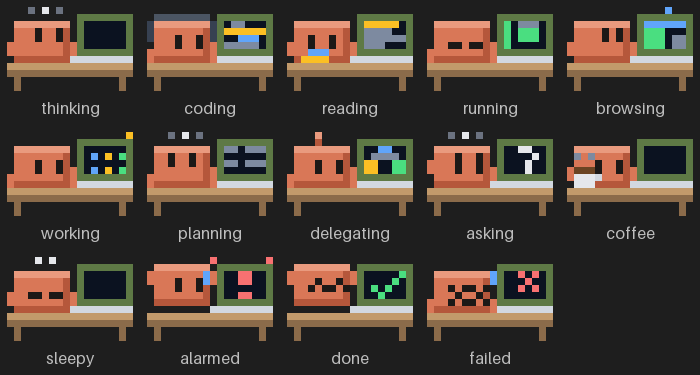
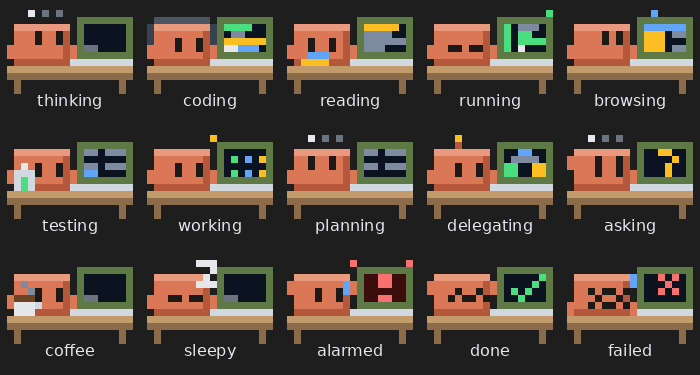
feat: testing personality, Z sleep sign, refreshed docs

diff --git a/hooks/pet.ts b/hooks/pet.ts
@@ -19,8 +19,15 @@ const DROP_BOXES = [C.green, C.amber] as const
 type Draw = (x: number, y: number, w: number, h: number, color: number) => void
 type Point = readonly [number, number]
 
-const TYPING = new Set<Activity>(['coding', 'running', 'tooling', 'planning', 'delegating'])
+const TYPING = new Set<Activity>(['coding', 'running', 'tooling', 'planning', 'delegating', 'testing'])
 const POINTS_QUESTION: readonly Point[] = [[19, 2], [20, 2], [21, 2], [18, 3], [22, 3], [22, 4], [21, 5], [20, 5], [20, 6], [20, 8]]
+
+const drawZ = (px: Pixels, frame: number) => {
+  const y = 1 - (frame % 2)
+  fill(px, 12, y, 3, 1, C.white)
+  fill(px, 12, y + 4, 3, 1, C.white)
+  dots(px, C.white, [[14, y + 1], [13, y + 2], [12, y + 3]])
+}
 
 const drawScreen = (px: Pixels, mood: Mood, activity: Activity, frame: number) => {
   fill(px, 15, 1, 11, 9, 0x2d3340)
@@ -84,6 +91,15 @@ const drawScreen = (px: Pixels, mood: Mood, activity: Activity, frame: number) =
       fill(px, 17, 5, 7, 1, C.slate)
       fill(px, 16, 6, 3, 2, DROP_BOXES[frame % 2])
       fill(px, 22, 6, 3, 2, DROP_BOXES[(frame + 1) % 2])
+      break
+    }
+    case 'testing': {
+      const passed = Math.floor(frame / 2) % 4
+      for (const [row, y] of [2, 4, 6].entries()) {
+        fill(px, 16, y, 2, 1, row < passed ? C.green : C.slate)
+        fill(px, 19, y, 5, 1, C.slate)
+      }
+      fill(px, 16, 8, ((frame % 5) + 1) * 2 - 1, 1, C.blue)
       break
     }
     case 'asking':
@@ -211,12 +227,14 @@ const drawProps = (px: Pixels, activity: Activity, frame: number) => {
       dots(px, C.slate, lift === 0 ? [[1 - (frame % 2), 8], [2, 7 - (frame % 2)]] : [])
       break
     }
-    case 'sleepy': {
-      const lift = frame % 2
-      dots(px, C.white, [[9, 1 - lift], [10, 1 - lift], [11, 1 - lift], [10, 2 - lift], [9, 3 - lift], [10, 3 - lift], [11, 3 - lift]])
-      dots(px, C.key, [[13, 0], [14, 0]])
+    case 'sleepy':
+      drawZ(px, frame)
       break
-    }
+    case 'testing':
+      fill(px, 0, 10, 4, 4, C.edge)
+      fill(px, 1, 11, 2, 3, C.green)
+      dots(px, C.white, [[2, 9 - (frame % 2)], [1, 8 - (frame % 3 === 0 ? 1 : 0)]])
+      break
     case 'alarmed':
       dots(px, C.red, [[0, 1], [26, 1], [1, 0], [25, 0]])
       break
@@ -224,12 +242,6 @@ const drawProps = (px: Pixels, activity: Activity, frame: number) => {
       for (const i of [0, 1, 2]) dots(px, i === frame % 3 ? C.white : C.key, [[3 + i * 2, 1]])
       break
   }
-}
-
-const drawIdleSleep = (px: Pixels, frame: number) => {
-  const lift = frame % 2
-  dots(px, C.white, [[9, 1 - lift], [10, 1 - lift], [11, 1 - lift], [10, 2 - lift], [9, 3 - lift], [10, 3 - lift], [11, 3 - lift]])
-  dots(px, C.key, [[13, 0], [14, 0]])
 }
 
 export const draw = (mood: Mood, frame: number, activity: Activity): Pixels => {
@@ -246,6 +258,6 @@ export const draw = (mood: Mood, frame: number, activity: Activity): Pixels => {
   drawArms(px, mood, activity, frame, at)
   drawEyes(mood, activity, frame, at, px)
   if (mood === 'working') drawProps(px, activity, frame)
-  if (mood === 'idle') drawIdleSleep(px, frame)
+  if (mood === 'idle') drawZ(px, frame)
   return px
 }

diff --git a/hooks/mini.ts b/hooks/mini.ts
@@ -102,6 +102,15 @@ const drawScreen = (px: Pixels, activity: Activity, frame: number) => {
       fill(px, 11, 4, 2, 2, frame % 2 === 0 ? C.green : C.amber)
       fill(px, 15, 4, 2, 2, frame % 2 === 0 ? C.amber : C.green)
       break
+    case 'testing': {
+      const passed = Math.floor(frame / 2) % 3
+      for (const [row, y] of [2, 4].entries()) {
+        fill(px, 11, y, 2, 1, row < passed ? C.green : C.slate)
+        fill(px, 14, y, 3, 1, C.slate)
+      }
+      fill(px, 11, 5, ((frame % 3) + 1) * 2, 1, C.blue)
+      break
+    }
     case 'asking':
       dots(px, frame % 2 === 0 ? C.amber : C.white, [[13, 2], [14, 2], [15, 3], [14, 4], [14, 5]])
       break
@@ -193,6 +202,11 @@ const drawProps = (px: Pixels, activity: Activity, frame: number) => {
       dots(px, C.slate, lift === 0 ? [[2 - (frame % 2), 3], [3, 4 - (frame % 2)]] : [])
       break
     }
+    case 'testing':
+      fill(px, 1, 5, 3, 3, C.edge)
+      fill(px, 2, 6, 1, 2, C.green)
+      dots(px, C.white, [[2, 4 - (frame % 2)]])
+      break
     case 'alarmed':
       dots(px, C.red, [[9, 0], [17, 0]])
       break
@@ -201,7 +215,9 @@ const drawProps = (px: Pixels, activity: Activity, frame: number) => {
       dots(px, frame % 2 === 0 ? C.amber : C.light, [[4, 0]])
       break
     case 'sleepy':
-      dots(px, C.white, [[3 + (frame % 2), 1 - (frame % 2)], [6, 0]])
+      fill(px, 7, 0, 3, 1, frame % 2 === 0 ? C.white : C.slate)
+      fill(px, 7, 3, 3, 1, frame % 2 === 0 ? C.white : C.slate)
+      dots(px, frame % 2 === 0 ? C.white : C.slate, [[9, 1], [8, 2]])
       break
     case 'browsing':
       dots(px, C.blue, [[12 + (frame % 3) * 2, 0]])
@@ -227,7 +243,7 @@ const drawPet = (px: Pixels, member: Mini, frame: number, activity: Activity) =>
 
   if (status === 'working') {
     drawEyes(activity, frame, at)
-    const isTyping = ['coding', 'running', 'tooling', 'planning', 'delegating'].includes(activity)
+    const isTyping = ['coding', 'running', 'tooling', 'planning', 'delegating', 'testing'].includes(activity)
     const isRaised = activity === 'alarmed'
     at(0, isRaised ? 3 : activity === 'asking' ? 3 + beat : 5 + (isTyping ? beat : 0), 1, 2, C.body)
     at(9, isRaised ? 3 : 5, 1, 2, C.body)

diff --git a/hooks/activity.ts b/hooks/activity.ts
@@ -4,6 +4,7 @@ export type Activity =
   | 'researching'
   | 'running'
   | 'browsing'
+  | 'testing'
   | 'tooling'
   | 'planning'
   | 'delegating'
@@ -18,6 +19,7 @@ const COFFEE_AFTER_MS = 6000
 const SLEEPY_AFTER_MS = 25000
 const SLOW_COMMAND_MS = 12000
 
+const TEST_TOOLS = /playwright|chrome-devtools/i
 const READ_TOOLS = new Set(['Read', 'Grep', 'Glob', 'LS', 'NotebookRead'])
 const WRITE_TOOLS = new Set(['Edit', 'Write', 'MultiEdit', 'NotebookEdit'])
 const WEB_TOOLS = new Set(['WebFetch', 'WebSearch'])
@@ -30,6 +32,7 @@ export const VERBS: Record<Activity, string> = {
   researching: 'reading',
   running: 'running',
   browsing: 'browsing',
+  testing: 'testing',
   tooling: 'working',
   planning: 'planning',
   delegating: 'delegating',
@@ -40,6 +43,7 @@ export const VERBS: Record<Activity, string> = {
 }
 
 export const activityOf = (tool: string): Activity => {
+  if (TEST_TOOLS.test(tool)) return 'testing'
   if (READ_TOOLS.has(tool)) return 'researching'
   if (WRITE_TOOLS.has(tool)) return 'coding'
   if (tool === 'Bash') return 'running'

diff --git a/hooks/register.tsx b/hooks/register.tsx
@@ -44,6 +44,7 @@ const TITLES: Record<Activity, string> = {
   researching: 'Reading',
   running: 'Running',
   browsing: 'Browsing',
+  testing: 'Testing',
   tooling: 'Working',
   planning: 'Planning',
   delegating: 'Delegating',

diff --git a/README.md b/README.md
@@ -10,11 +10,11 @@ The pet with a crew of four subagents (reading, planning, taking a coffee break,
 
 The main pet in each of its personalities and states:
 
-![Main pet: thinking, coding, reading, running, browsing, working, planning, delegating, asking, coffee, sleepy, error found, done, error, idle](docs/pet.png)
+![Main pet: thinking, coding, reading, running, browsing, testing, working, planning, delegating, asking, coffee, sleepy, error found, done, error, idle](docs/pet.png)
 
 A subagent in each of its looks:
 
-![Subagent looks: thinking, coding, reading, running, browsing, working, planning, delegating, asking, coffee, sleepy, alarmed, done, failed](docs/crew.png)
+![Subagent looks: thinking, coding, reading, running, browsing, testing, working, planning, delegating, asking, coffee, sleepy, alarmed, done, failed](docs/crew.png)
 
 These images are drawn from the same pixel code the mod uses. The terminal shows them in true color with half-block characters, so they look the same up to the terminal's cell shape.
 
@@ -40,12 +40,13 @@ While working, the main pet and every subagent act out what they are doing, judg
 | reading     | Read, Grep, Glob, LS                                              | Wide scanning eyes, a stack of books, a highlight moving over text   |
 | running     | Bash                                                              | Squinting at a green terminal, a blinking status light               |
 | browsing    | WebFetch, WebSearch                                               | A web page on screen, a wifi blip above the laptop                   |
+| testing     | Playwright and Chrome DevTools MCP tools                          | A bubbling lab tube, a test checklist ticking and a progress bar     |
 | planning    | TodoWrite, plan mode tools                                        | Eyes up and to the side, a checklist being ticked off                |
 | delegating  | Task, Agent, SendMessage                                          | A blinking antenna, a tree of boxes passing work down                |
 | asking      | AskUserQuestion                                                   | A raised hand and a blinking question mark                           |
 | working     | Any other tool, including MCP tools                               | Blinking indicator lights on screen and a spark                      |
 | coffee      | Quiet for 6 seconds, or a Bash command running over 12 seconds   | Sips a mug of coffee with steam while it waits                       |
-| sleepy      | Quiet for 25 seconds                                              | Heavy eyelids, a dim screen and a floating z                         |
+| sleepy      | Quiet for 25 seconds                                              | Heavy eyelids, a dim screen and a floating Z                         |
 | error found | A tool call returned an error, for 3 seconds                      | Arms up and a hop, a sweat drop, a flashing red warning on screen    |
 
 ### Subagent crew
